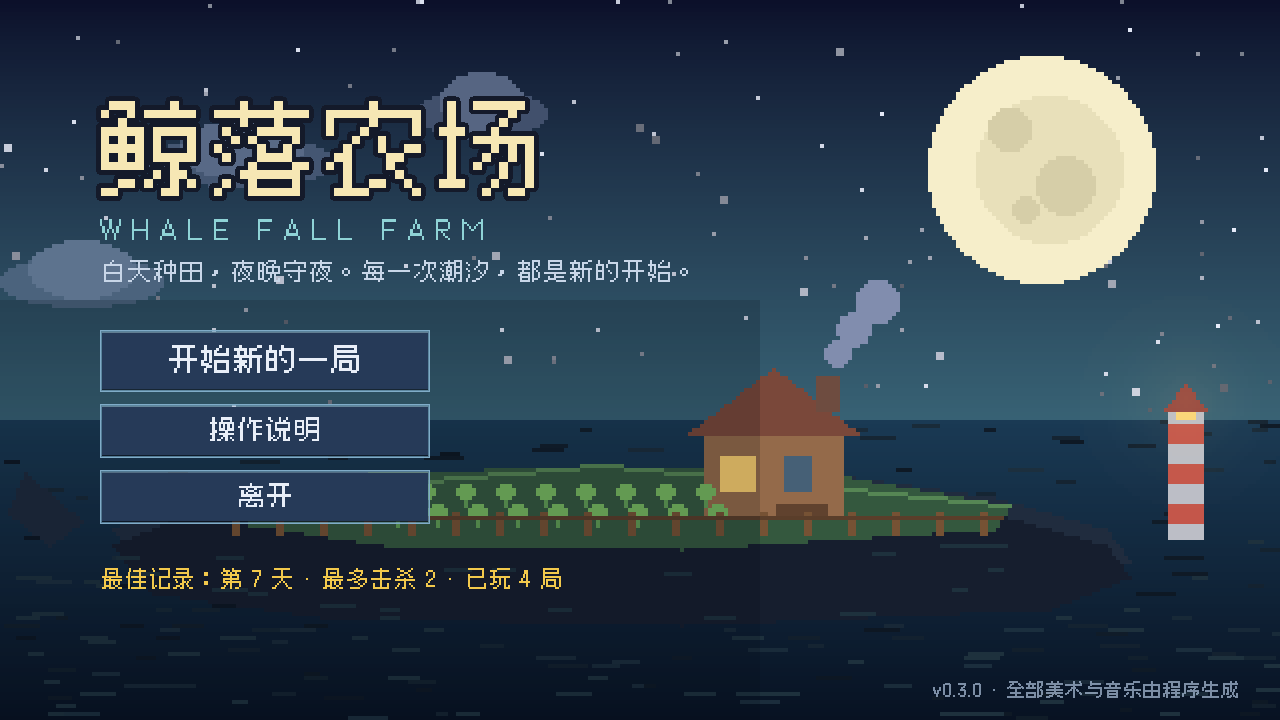
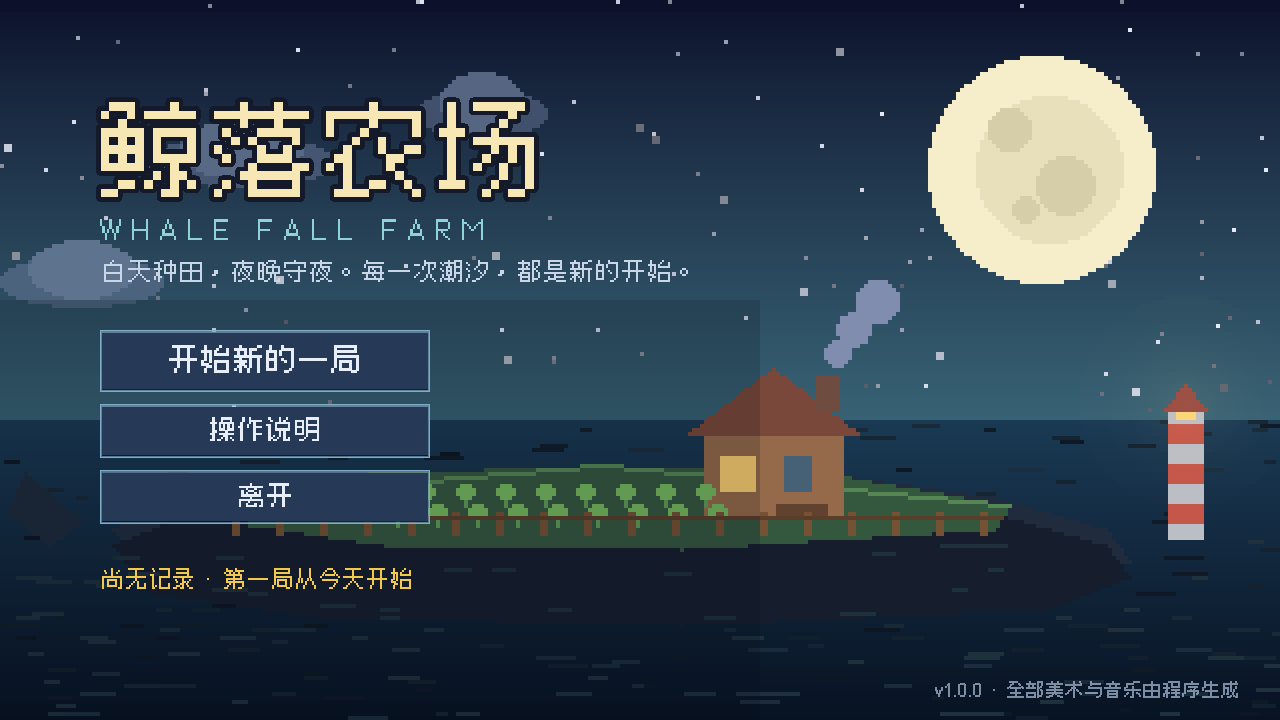
v1.0.0: endless mode, final balance and release

diff --git a/README.md b/README.md
@@ -16,6 +16,7 @@
 - **夜晚**：潮水带来史莱姆、偷穗鸦和缠根怪。用镰刀清场；乌鸦会优先啃食成熟的作物。萤火虫会飘在田上。
 - **黎明**：三选一随机祝福，然后可以在**潮汐商店**用金币买种子、回血、加生命上限。
 - **第 7 夜**：腐化南瓜王苏醒。它会吐种子弹、在血量过半和残血时召唤潮泥怪；打倒它才能迎来胜利。
+- **无尽模式**：通关后可以继续。每 3 天再战一次南瓜王，怪潮越来越厚，直到农场沉没。最佳纪录按存活天数结算。
 - 地图装饰、夜间波次、祝福与商店都是随机的，所以每一局都不一样。
 
 ## 操作
@@ -34,7 +35,7 @@
 
 ### 直接玩（推荐）
 
-到 [Releases](https://github.com/ElectLive/whale-fall-farm/releases) 下载最新的 `WhaleFallFarm-v0.3.0-win64.zip`，解压后双击 `WhaleFallFarm.exe`。
+到 [Releases](https://github.com/ElectLive/whale-fall-farm/releases) 下载最新的 `WhaleFallFarm-v1.0.0-win64.zip`，解压后双击 `WhaleFallFarm.exe`。
 存档与设置写在 exe 旁边，绿色免安装。
 
 ### 用 Godot 打开
@@ -59,8 +60,8 @@ python tools/gen_audio.py   # 4 首循环 BGM + 17 个音效（需要 numpy）
 ## 开发自检
 
 ```bash
-# 无头逻辑测试：种田、昼夜、商店、祝福、Boss、音乐开关、存档
-Godot --headless --path . -- --selftest     # 36/36 PASS
+# 无头逻辑测试：种田、昼夜、商店、祝福、Boss、无尽、音乐开关、存档
+Godot --headless --path . -- --selftest     # 40/40 PASS
 
 # 实时冒烟测试：真的种一轮、传送到怪身边砍死几只、进入黎明
 Godot --headless --path . -- --smoke
@@ -117,6 +118,7 @@ docs/
 - **v0.1.0** — 完整核心循环：种田、昼夜、三种怪物、12 种祝福、7 天胜利、结算与本地最佳记录。
 - **v0.2.0** — 黎明潮汐商店；第 7 夜 Boss「腐化南瓜王」（种子弹幕、召唤小怪、Boss 血条）；横幅、粒子、新音效；selftest 扩到 32 项。
 - **v0.3.0** — 音乐/音效/全屏设置与暂停菜单；2 个新祝福（潮雾提灯、绿拇指）；Boss 专属 BGM 与胜负音效；夜晚萤火虫、低血量红框、作物阶段弹跳；截图与文档更新。
+- **v1.0.0** — 无尽模式（通关后继续，每 3 天再战南瓜王）；记录/最佳成绩在无尽中继续更新；最终平衡与发布构建；selftest 扩到 40 项。
 
 ## License
 

diff --git a/docs/design.md b/docs/design.md
@@ -8,9 +8,10 @@
 
 ```
 标题 → 第 N 天白天（75s，种田/收获）
-      → 夜晚（20+2N 秒，刷怪/战斗；第 7 夜 Boss）
+      → 夜晚（20+2N 秒，刷怪/战斗；第 7/10/13… 夜 Boss）
       → 黎明（三选一祝福 + 潮汐商店）
       → 第 N+1 天 … → 第 7 夜击败南瓜王后胜利
+      → 胜利后可选择「继续无尽」，每 3 天再战一次南瓜王
 ```
 
 - 白天结束是强制的（倒计时归零），夜晚同理（倒计时结束后怪物狂暴，12 秒后清场；Boss 在场时不会清场）。
@@ -24,6 +25,7 @@
 - 血量降到 66% / 33% 时各召唤 2 只潮泥怪。
 - 顶部显示 Boss 血条；击杀后清空剩余小怪并在 1.6 秒后进入胜利结算。
 - Boss 在场时不会因时间结束而清场，必须击杀（或玩家阵亡）。
+- **无尽模式**：首次通关后可继续；此后每 3 天（10、13、16…）再战一次南瓜王，血量随天数增长，直到玩家阵亡。
 
 ## 潮汐商店
 
@@ -126,4 +128,5 @@
 
 ## 后续路线
 
-- v1.0：无尽模式、更细的数值平衡、完整音轨、发布构建与多语言 README。
+- v1.x：更多作物/怪物、遗物稀有度、成就与图鉴、Steam Deck 手柄支持。
+- 长期：多语言、云存档、关卡编辑器。

diff --git a/docs/devlog.md b/docs/devlog.md
@@ -1,5 +1,21 @@
 # 开发日志
 
+## v1.0.0 — 2026-10-29
+
+### 内容
+
+- **无尽模式**：第 7 夜击败南瓜王后，胜利界面新增「继续无尽」；从第 8 天继续，每 3 天（10、13、16…）再战一次南瓜王，血量随天数增长。
+- 无尽模式中死亡会更新最佳存活天数 / 击杀，但不会重复累计「已玩局数」或重复结算金币。
+- HUD 在无尽模式显示「白天 · 无尽 / 夜晚 · 无尽」。
+- 最终版号 1.0.0，写入 project.godot 与标题界面。
+- 文档补全无尽规则；最终平衡与发布构建。
+
+### 验证记录
+
+- `--selftest`：**40/40 PASS**（新增 Boss 夜排期、无尽启动、单次记录）。
+- 导出构建实机启动 + 截图验证通过。
+- GitHub Release v1.0.0 附带 Windows x86_64 构建与 SHA256。
+
 ## v0.3.0 — 2026-10-29
 
 ### 内容
